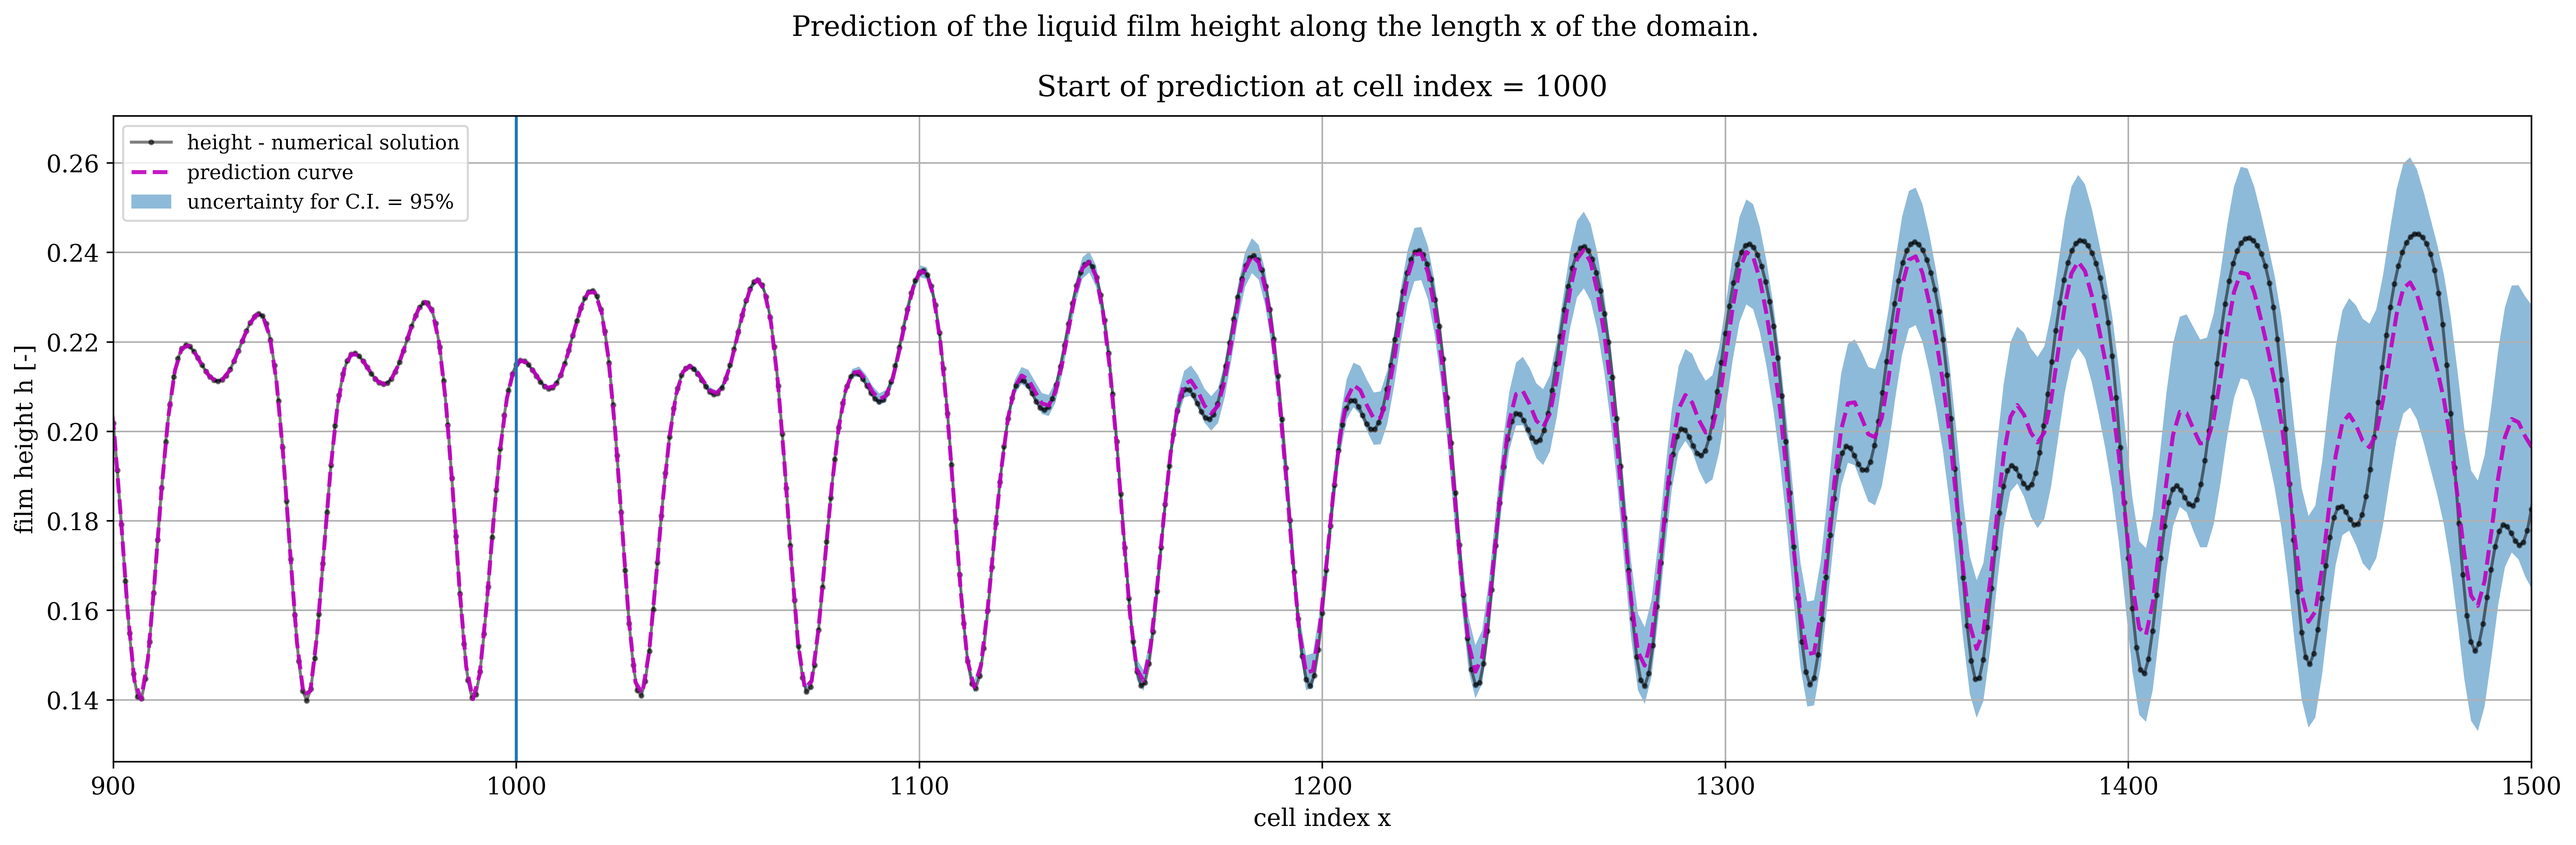
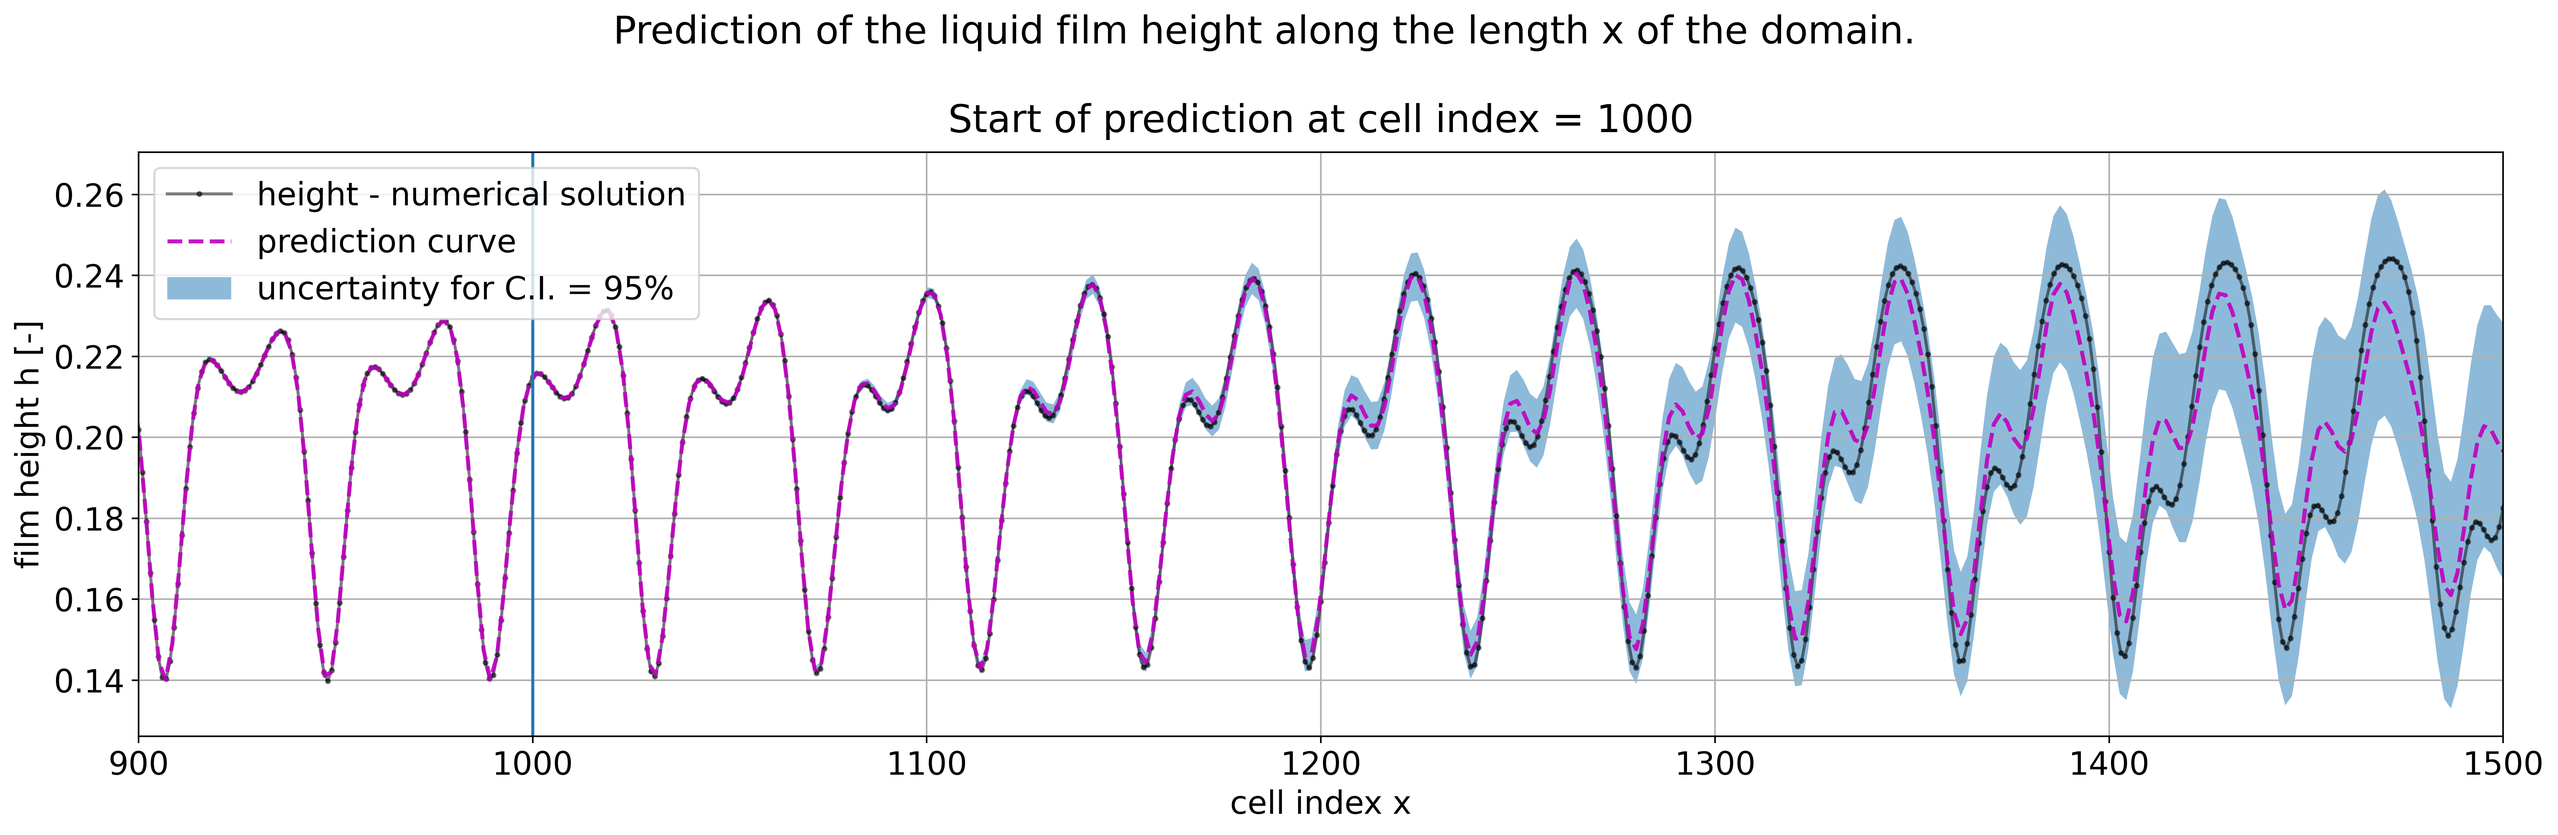
plots adjustments

diff --git a/assignment-DDFM-npys/Tsveti_adaptation_Tutorial_3_foreCasting_liquid_films.py b/assignment-DDFM-npys/Tsveti_adaptation_Tutorial_3_foreCasting_liquid_films.py
@@ -54,6 +54,18 @@ from sklearn.gaussian_process.kernels \
 # Show code documentation:
 # print(__doc__)
 
+
+# PLOT CUSTOMIZATIONS:
+font = {'family' : 'DejaVu Sans',
+        'weight' : 'normal',
+        'size'   : 16}
+rc('font', **font)
+
+# transparency levels
+alpha1 = 0.5
+alpha2 = 0.9
+alpha3 = 0.5
+
 # %%
 
 # Save the whole plot and/or a zoomed area:
@@ -96,7 +108,7 @@ for LIQUID in LIQUIDS:
         # Ignore first few cells to avoid issues:
         cut = int(0.92*nx)
         # Specify until when to take data into account:
-        last_cell = int(0.4*nx)
+        last_cell = int(0.3*nx)
 
         # Construct axes:
         x = -np.mgrid[last_cell:cut]*dx
@@ -177,17 +189,6 @@ for LIQUID in LIQUIDS:
 
 
         #%% PLOTS:
-        # PLOT CUSTOMIZATIONS:
-        font = {'family' : 'serif',
-                'weight' : 'normal',
-                'size'   : 12}
-        rc('font', **font)
-
-        # transparency levels
-        alpha1 = 0.5
-        alpha2 = 0.9
-        alpha3 = 0.5
-
         plt.close()
 
         # Create the figure
@@ -226,13 +227,13 @@ for LIQUID in LIQUIDS:
         title1 = 'Start of prediction at x = {:.2f}'\
                  .format(-(last_cell)*dx)
 
-        plt.suptitle(suptitle1, fontsize=14)
+        plt.suptitle(suptitle1)
         plt.title(title1, pad = 10)
 
         plt.xlabel('domain length x, [-]')
         plt.ylabel('film height h, [-]')
         plt.tight_layout()
-        plt.legend(loc = 'upper left', fontsize=10)
+        plt.legend(loc = 'upper left')
         plt.grid(linewidth = 0.8)
         # Mark with a line the cutted data in the beginning:
         plt.axvline(x=-(cut)*dx, c='grey', ls = ':')

diff --git a/assignment-DDFM-dats/Tsveti_adaptation_Tutorial_3_foreCasting_liquid_films.py b/assignment-DDFM-dats/Tsveti_adaptation_Tutorial_3_foreCasting_liquid_films.py
@@ -36,6 +36,19 @@ from sklearn.gaussian_process.kernels \
 # Show code documentation:
 # print(__doc__)
 
+
+# PLOT CUSTOMIZATIONS:
+font = {'family' : 'DejaVu Sans',
+        'weight' : 'normal',
+        'size'   : 16}
+rc('font', **font)
+
+# transparency levels
+alpha1 = 0.5
+alpha2 = 0.9
+alpha3 = 0.5
+
+
 #%%
 # Tsveti
 # Data folder from Numerical solver for liquid films
@@ -172,17 +185,6 @@ for i in range(len(option_list)):
     y_pred, y_std = gp.predict(x_, return_std = True)
 
     #%% PLOTS:
-    # PLOT CUSTOMIZATIONS:
-    font = {'family' : 'serif',
-            'weight' : 'normal',
-            'size'   : 12}
-    rc('font', **font)
-
-    # transparency levels
-    alpha1 = 0.5
-    alpha2 = 0.9
-    alpha3 = 0.5
-
     plt.close()
 
     # Create the figure
@@ -224,13 +226,13 @@ for i in range(len(option_list)):
     title1 = 'Start of prediction at cell index = {:.0f}'\
              .format(len(h))
 
-    plt.suptitle(suptitle1, fontsize=14)
+    plt.suptitle(suptitle1)
     plt.title(title1, pad = 10)
 
     plt.xlabel('cell index x')
     plt.ylabel('film height h [-]')
     plt.tight_layout()
-    plt.legend(loc = 'upper left', fontsize=10)
+    plt.legend(loc = 'upper left')
     plt.grid(linewidth = 0.8)
     # Mark with a line where the prediction starts:
     plt.axvline(x=len(h))

diff --git a/post_plotting_surfaces_contourfs_filtered_h.py b/post_plotting_surfaces_contourfs_filtered_h.py
@@ -26,14 +26,6 @@ import tools_for_plotting as save_plots
 
 
 ####################
-# PLOT CUSTOMIZATIONS:
-font = {'family' : 'DejaVu Sans',
-        'weight' : 'normal',
-        'size'   : 14}
-rc('font', **font)
-
-
-####################
 os.chdir('RESULTS/')
 
 # Gather all computed configurations:
@@ -41,12 +33,12 @@ LIQUIDS = natsorted(glob.glob('2D*')) + natsorted(glob.glob('3D*'))
 
 # Choose which plots to produce:
 Surfaces = False   # liquid film height surfaces h
-Contourfs = False  # contour plot of the last computed time step of h
-Filtered = True    # filtered third derivatives contourplots
+Contourfs = True  # contour plot of the last computed time step of h
+Filtered = False    # filtered third derivatives contourplots
                    # and comparisons
 
 if Filtered:
-    LIQUIDS = ['3D_WATER_with_surface_tension_coarse_XZ2/'],
+    LIQUIDS = ['3D_WATER_with_surface_tension_coarse_XZ2/',
                '3D_WATER_with_surface_tension_whole_zdomain_coarseXZ1/']
 
 

diff --git a/post_plotting_envelopes_for_2D.py b/post_plotting_envelopes_for_2D.py
@@ -31,20 +31,18 @@ import imageio
 import gc
 
 
-####################
 # PLOT CUSTOMIZATIONS:
 font = {'family' : 'DejaVu Sans',
         'weight' : 'normal',
-        'size'   : 10}
+        'size'   : 14}
 rc('font', **font)
-# plt.rcParams['xtick.labelsize'] = 8
-# plt.rcParams['ytick.labelsize'] = 8
-alpha1 = 0.8 # plots transparency
 
+# transparency level
+alpha1 = 0.9
 
 ####################
 os.chdir('RESULTS/')
-# Gather all computed configurations:
+# Gather all computed 2D configurations:
 LIQUIDS = natsorted(glob.glob('2D*'))
 
 

diff --git a/post_plotting_spectrograms_characteristics.py b/post_plotting_spectrograms_characteristics.py
@@ -30,16 +30,6 @@ import glob
 # Import libraries for paths and saving:
 from pathlib import Path
 
-####################
-# PLOT CUSTOMIZATIONS:
-font = {'family' : 'DejaVu Sans',
-        'weight' : 'normal',
-        'size'   : 10}
-rc('font', **font)
-# plt.rcParams['xtick.labelsize'] = 8
-# plt.rcParams['ytick.labelsize'] = 8
-alpha1 = 0.7 # plots transparency
-
 
 
 ####################

diff --git a/tools_for_plotting.py b/tools_for_plotting.py
@@ -35,7 +35,7 @@ from Functions_Miguel import filt_X
 # PLOT CUSTOMIZATIONS:
 font = {'family' : 'DejaVu Sans',
         'weight' : 'normal',
-        'size'   : 10}
+        'size'   : 14}
 rc('font', **font)
 
 
